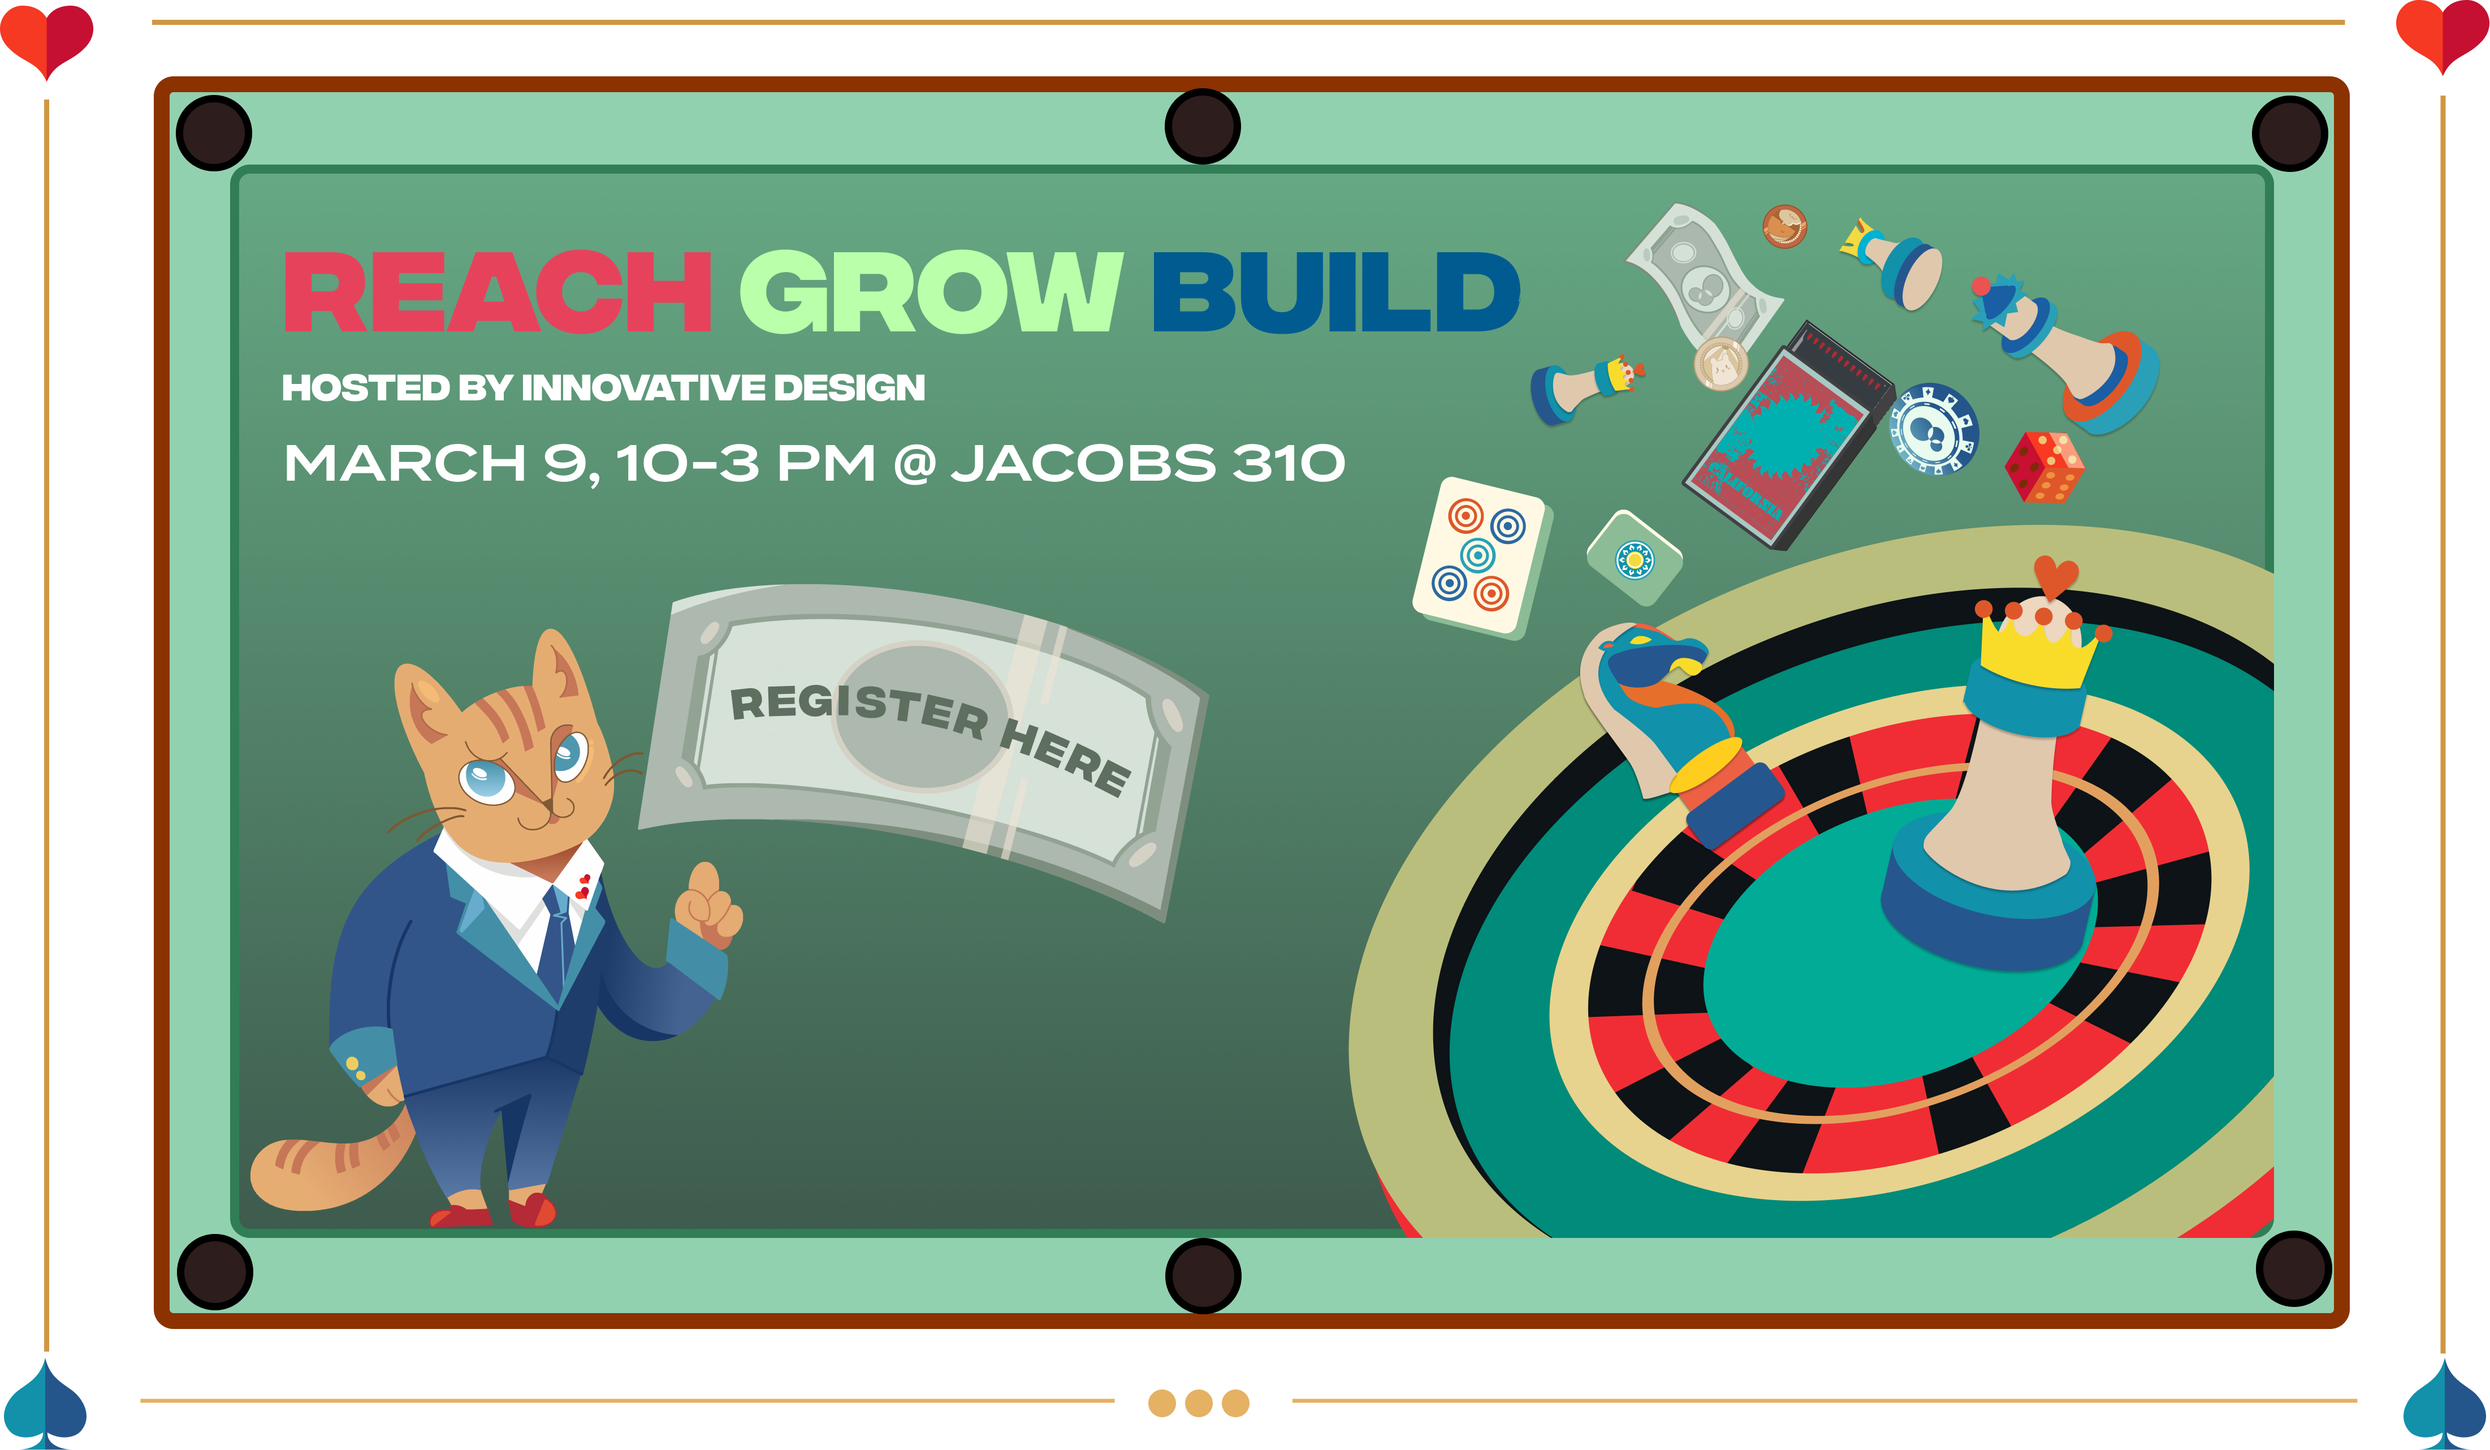
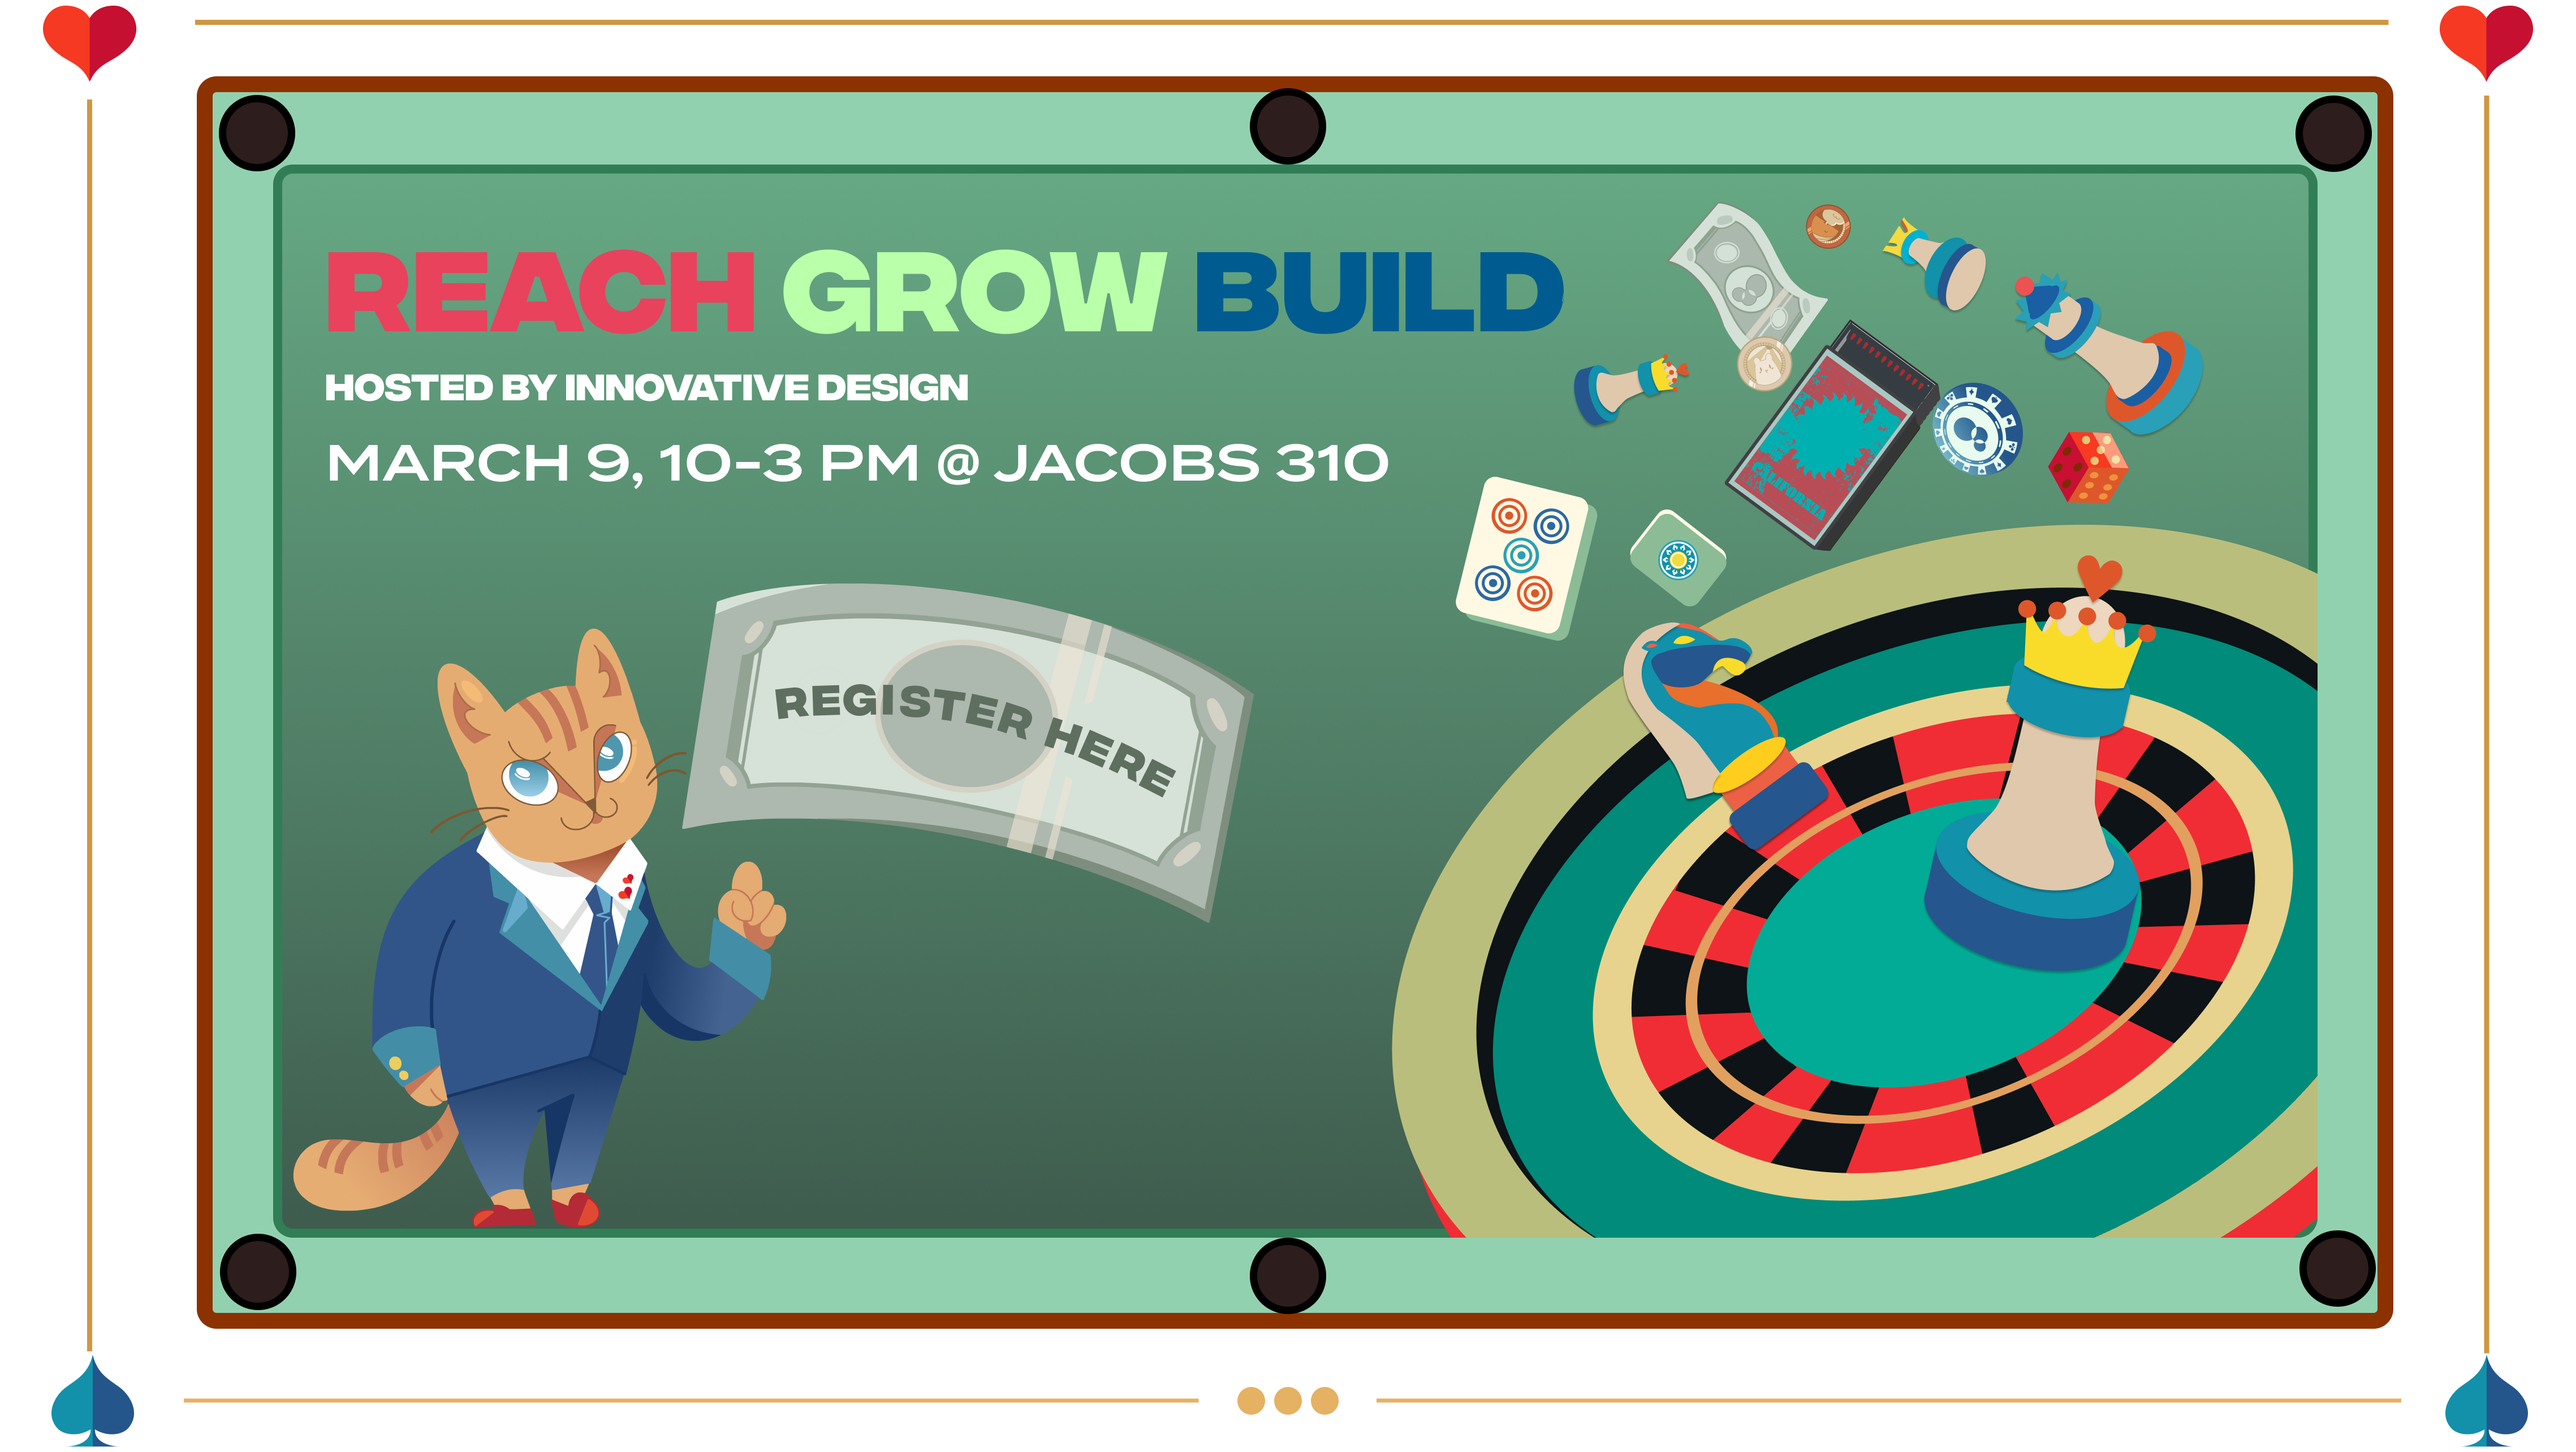
new schedule image and corrected title image

diff --git a/app/page.js b/app/page.js
@@ -2,9 +2,9 @@ import Image from "next/image";
 
 export default function Home() {
   return (
-    <main className="flex min-h-screen flex-col items-center justify-between p-24">
+    <main class="bg-[#FBE9CC] p-24" className="flex min-h-screen flex-col items-center justify-between">
       <div class="relative pb-4 flex flex-col items-center">
-        <div className="">
+        <div>
           <a href="your-link-url" className="top-[8%] left-[25%]">
             <Image className="relative pb-2 pointer-events-none" layout="responsive" width="500" height="500" priority src="/images/rgb_title_w_button.png" alt="rgb_title" />
           </a>
@@ -12,7 +12,7 @@ export default function Home() {
         <Image className="pb-2 pointer-events-none" layout="responsive" width="500" height="500" priority src="/images/rgb_info.png" alt="rgb_title" />
         <Image className="pb-2 pointer-events-none" layout="responsive" width="500" height="500" priority src="/images/rgb_schedule.png" alt="rgb_title" />
         <div className="self-center font-termina font-extrabold text-2xl">
-          <a href="https://linktr.ee/innodatcal">
+          <a class="text-black" href="https://linktr.ee/innodatcal">
             @innodatcal
           </a>
         </div>
